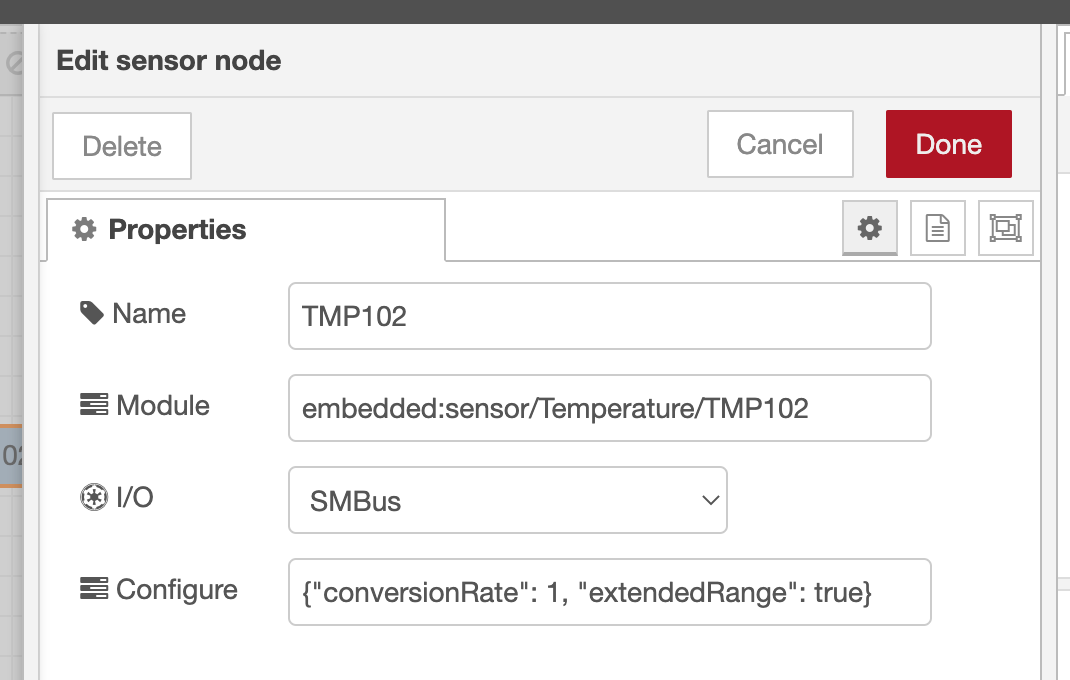
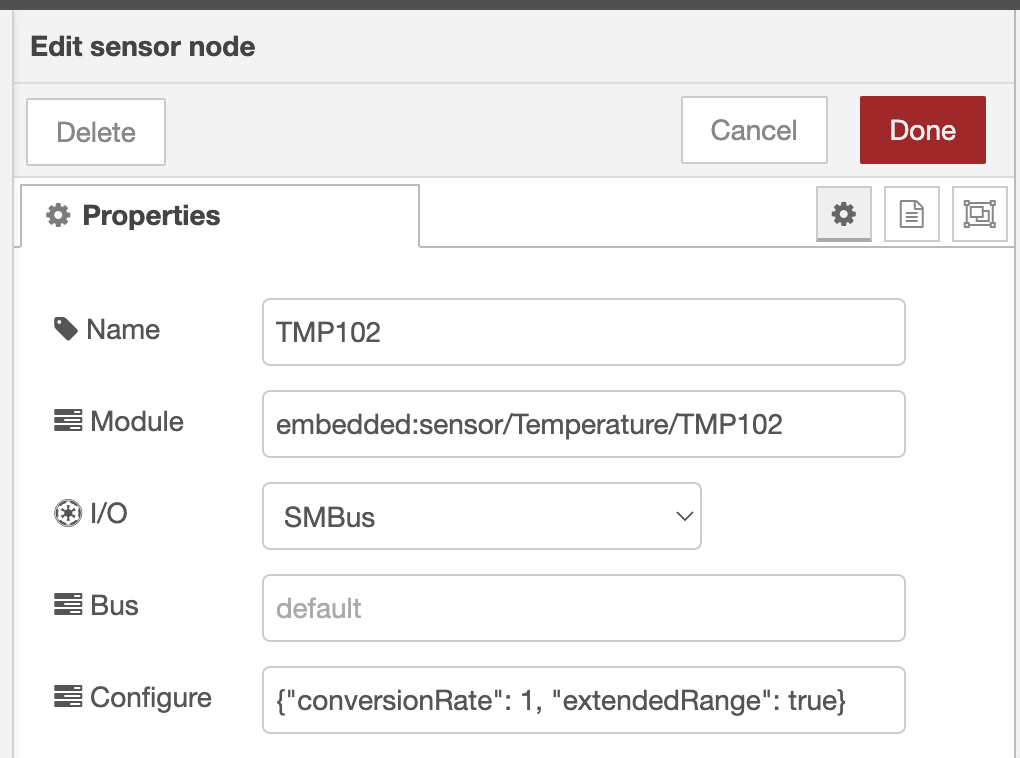
sensor node supports bus and simulates more sensors classes

diff --git a/nodes/sensor/sensor.js b/nodes/sensor/sensor.js
@@ -1,14 +1,77 @@
+const Compounds = {
+	Accelerometer: "accelerometer",
+	AmbientLight: "lightmeter",
+	AtmosphericPressure: "barometer",
+	Barometer: "barometer",
+	Gyroscope: "gyroscope",
+	Humidity: "hygrometer",
+	Magnetometer: "magnetometer",
+	Proximity: "proximity",
+	Temperature: "thermometer",
+	Touch: "touch"
+};
+
 module.exports = function(RED) {
     function SensorNode(config) {
         RED.nodes.createNode(this,config);
+
+		let sensors;
+		const prefix = "embedded:sensor/";		// embedded:sensor/AtmosphericPressure-Temperature/BMP180
+        if (config.module.startsWith(prefix)) {
+			sensors = config.module.substring(prefix.length).split("/")[0];
+			if (sensors)
+				sensors = sensors.split("-");
+		}
+        if (!sensors || !sensors.length)
+			sensors = ["Temperature"];
 		this.on('input', (msg, send, done) => {
-			msg.payload = {
-				simulated: true,
-				temperature: 22.5 - (Math.random() * 5)
-			};
+			if (1 === sensors.length) {
+				msg.payload = simulateOne(sensors[0]);
+			}
+			else {
+				msg.payload = {};
+				sensors.forEach(sensor => {
+					if (Compounds[sensor])
+						msg.payload[Compounds[sensor]] = simulateOne(sensor);
+				});
+			}
+
+			msg.payload.simulated = true;
 			send(msg);
 			done();
 		});
     }
     RED.nodes.registerType("sensor", SensorNode);
 }
+
+function simulateOne(sensor) {
+	const sample = {};
+
+	switch (sensor) {
+		case "Accelerometer":
+			sample.x = 1 - (Math.random() * 2);
+			sample.y = 1 - (Math.random() * 2);
+			sample.z = 1 - (Math.random() * 2);
+			break;
+		case "AtmosphericPressure":
+		case "Barometer":
+			sample.pressure = 101_325 + (10_000 - (Math.random() * 20_000)); 
+			break;
+		case "Gyroscope":
+			sample.x = 1 - (Math.random() * 2);
+			sample.y = 1 - (Math.random() * 2);
+			sample.z = 1 - (Math.random() * 2);
+			break;
+		case "Proximity":
+			sample.max = 1000;
+			sample.distance = Math.random() * sample.max;
+			sample.near = sample.distance < 50;
+			break;
+		case "Temperature":
+			sample.temperature = 22.5 - (Math.random() * 5)
+			break;
+	}
+
+	return sample;
+}
+ 

diff --git a/nodes/sensor/sensor-mcu.js b/nodes/sensor/sensor-mcu.js
@@ -23,25 +23,24 @@ import Modules from "modules";
 
 class Sensor extends Node {
 	#io;
-	#module;
 	#sensor;
 	#configuration;
 
 	onStart(config) {
 		this.#io = config.io;
-		this.#module = config.module;
-		this.#configuration = config.configuration ? JSON.parse(config.configuration) : undefined;
+		const configuration = config.configuration ? JSON.parse(config.configuration) : undefined;
 
 		try {
-			const Sensor = Modules.importNow(this.#module);
+			const Sensor = Modules.importNow(config.module);
 			let sensor;
+			const bus = config.bus ?? "default";
 			if ("SMBus" === this.#io) 
-				sensor = {...device.I2C.default, io: device.io.SMBus}
+				sensor = {...device.I2C[bus], io: device.io.SMBus}
 			else
-				sensor = device[this.#io].default;
+				sensor = device[this.#io][bus];
 			this.#sensor = new Sensor({sensor});
-			if (this.#configuration)
-				this.#sensor.configure(this.#configuration);
+			if (configuration)
+				this.#sensor.configure(configuration);
 		}
 		catch {
 		}

diff --git a/nodes/sensor/sensor.html b/nodes/sensor/sensor.html
@@ -5,6 +5,7 @@
         defaults: {
             name: {value:""},
             io: {value:"I2C"},
+            bus: {value:"default"},
             module: {
 				value:"",
 				validate: function(v) {
@@ -111,6 +112,11 @@
 			<option value="SMBus">SMBus</option>
 		</select>
 	</div>
+
+    <div class="form-row">
+        <label for="node-input-bus"><i class="fa fa-tasks"></i> Bus</label>
+        <input type="text" id="node-input-bus" placeholder="default">
+    </div>
 
     <div class="form-row">
         <label for="node-input-configuration"><i class="fa fa-tasks"></i> Configure</label>

diff --git a/nodes/sensor/readme.md b/nodes/sensor/readme.md
@@ -1,7 +1,7 @@
 # MCU Sensor Node
 Copyright 2022, Moddable Tech, Inc. All rights reserved.<br>
 Peter Hoddie<br>
-Updated July 25, 2022<br>
+Updated September 29, 2022<br>
 
 ## Overview
 The sensor node supports sensor classes that conform the Ecma-419 [Sensor Class Pattern](https://419.ecma-international.org/#-13-sensor-class-pattern). These include:
@@ -80,6 +80,7 @@ A simple test flow using the Sensor node has an inject node to periodically trig
         "z": "d908d28ca7c5c7b4",
         "name": "TMP102",
         "io": "SMBus",
+        "bus": ""
         "module": "embedded:sensor/Temperature/TMP102",
         "configuration": "{\"conversionRate\": 1, \"extendedRange\": true}",
         "x": 340,
@@ -134,8 +135,9 @@ The `Module` field is required. This is the module specifier used by the sensor 
 
 The `I/O` field is set to either I²C or SMBus, depending on the type of I/O the sensor driver users. In most cases it is SMBus.
 
-The `Configure` field is an optional JSON object that is passed to the `configure` method of the sensor driver before taking any readings. This can be useful for configuring advanced modes of the sensor. 
+The `Bus` field is usually left blank or set to `default` to select the default I²C or SMBus bus. Useful for devices with more than one bus (e.g. M5Atom-Matrix which has both `default` and `internal`).
 
+The `Configure` field is an optional JSON object that is passed to the `configure` method of the sensor driver before taking any readings. This can be useful for configuring advanced modes of the sensor. 
 
 ## Building a project
 The I/O for sensors uses the default I²C port of the target device. Therefore, it is important to specify the correct platform target when building your project. For example, to build for Moddable Two:
@@ -145,3 +147,6 @@ mcconfig -d -m -p esp32/moddable_two
 ```
 
 The default I²C port comes from the [host provider instance](https://419.ecma-international.org/#-16-host-provider-instance). Not all device ports have a host provider instance. Those that do include Moddable One (`esp/moddable_one`), Moddable Two (`esp32/moddable_two`), Node-MCU for ESP8266 (`esp/nodemcu`), and Node-MCU for ESP32 (`esp32/nodemcu`). If your device port does not have a host provider instance, it is usually straightforward to add a basic one by following the pattern of an [existing port](https://github.com/Moddable-OpenSource/moddable/blob/public/build/devices/esp32/targets/nodemcu/host/provider.js).
+
+## Running in Full Node-RED
+When run in full Node-RED the sensor node tries to generate simulated values. It determines the type of the sensor from the module specifier (`embedded:sensor/Temperature/TMP102` or `embedded:sensor/AtmosphericPressure-Temperature/BMP180`). The simulated sensor classes are: Accelerometer, Barometer, Gyroscope, Proximity and Temperature. The simulated values are naive random numbers, but can be useful for testing flows. More work could be done to provide more realistic simulations and support for more sensor types.
